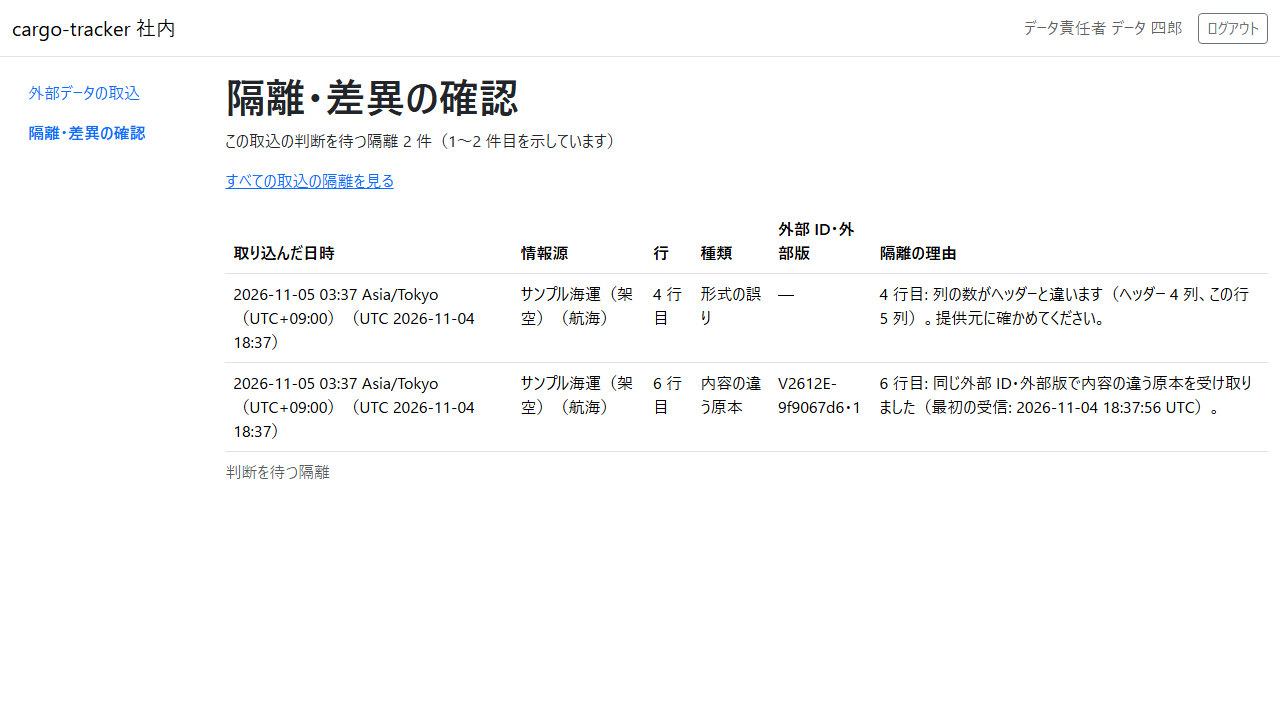
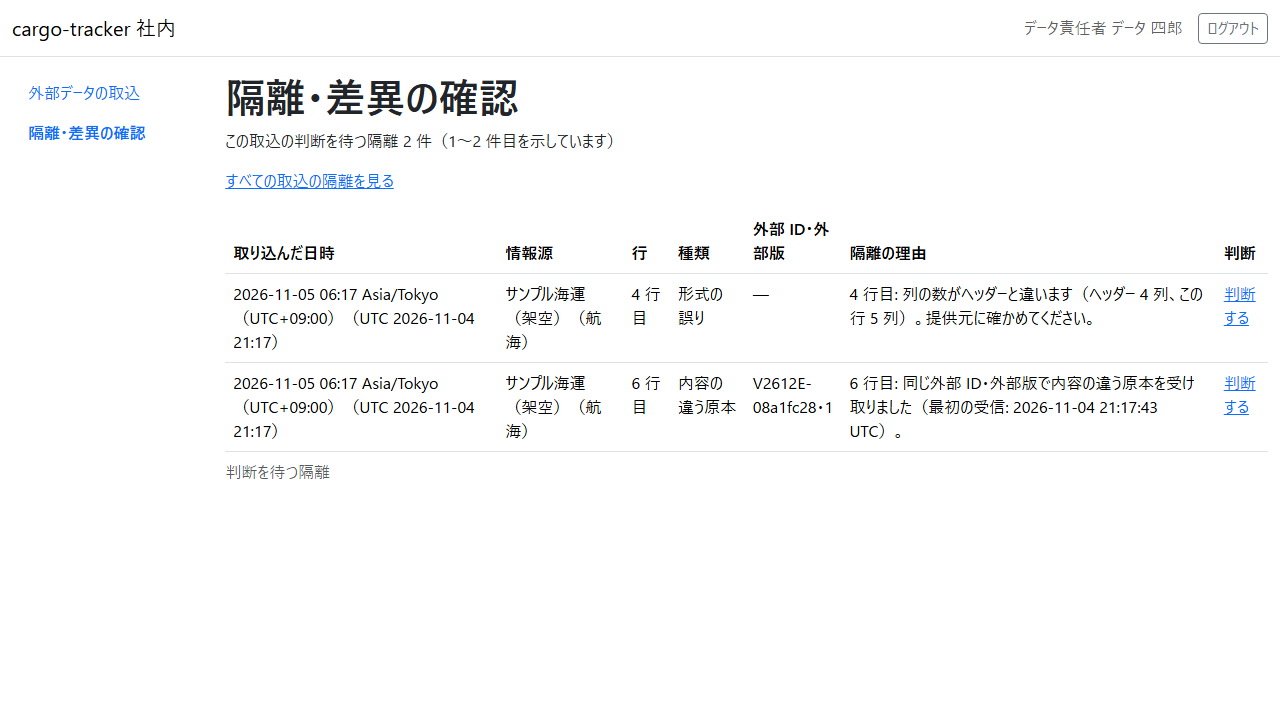
docs(manual): 12.2 に隔離を却下する手順を書き、判断の画面のキャプチャを足す（Bolt 39d2 ステップ 7）
Claude-Session: https://claude.ai/code/session_01GYBUMiQNsZ1DuDCs7LKGFo

diff --git a/docs/manual/12-外部データ.md b/docs/manual/12-外部データ.md
@@ -1,25 +1,26 @@
 ---
 type: Manual
 title: "12 章 外部データ"
-description: "データ責任者が、承認済みの情報源（運送会社・港湾など）から受け取った CSV ファイルを取り込み、採用・重複・隔離の件数を確かめ、判断を待つ隔離を一覧で確かめる手順です。"
+description: "データ責任者が、承認済みの情報源（運送会社・港湾など）から受け取った CSV ファイルを取り込み、採用・重複・隔離の件数を確かめ、判断を待つ隔離を一覧で確かめて却下する手順です。"
 tags: [manual,cargo-tracker]
 status: draft
-generated: { by: anthropic/claude-opus-5-5, at: 2026-11-04T18:48:58Z }
+generated: { by: anthropic/claude-opus-5-5, at: 2026-11-04T21:21:40Z }
 ---
 
 # 12 章 外部データ
 
-データ責任者が、承認済みの情報源（運送会社・港湾などの提供元と、航海・主要実績などの原本の種別の組み合わせ）から受け取った CSV ファイルを取り込み、取り込んだ行がどう分類されたか（採用・重複・隔離）を確かめ、隔離になった行を一覧で確かめる手順です。外部データの取込は、[1 章 業務フロー](01-業務フロー.md) の WF-1（見積依頼から追跡の照会まで）の工程には含まれません。WF-1 とは別に、データ責任者が提供元からファイルを受け取るたびに行います。
+データ責任者が、承認済みの情報源（運送会社・港湾などの提供元と、航海・主要実績などの原本の種別の組み合わせ）から受け取った CSV ファイルを取り込み、取り込んだ行がどう分類されたか（採用・重複・隔離）を確かめ、隔離になった行を一覧で確かめて、業務で使わないものを却下する手順です。外部データの取込は、[1 章 業務フロー](01-業務フロー.md) の WF-1（見積依頼から追跡の照会まで）の工程には含まれません。WF-1 とは別に、データ責任者が提供元からファイルを受け取るたびに行います。
 
-画面の開き方: ログインすると外部データの取込（12.1）が開きます。ナビゲーションの「外部データの取込」（URL: `/staff/external-data/ingestions/new`）からも開けます。隔離・差異の確認（12.2）は、ナビゲーションの「隔離・差異の確認」（URL: `/staff/external-data/undecided-records`）か、取込の結果の画面の「この取込の隔離をすべて確認する」から開きます。どちらの画面もデータ責任者だけが開けます。
+画面の開き方: ログインすると外部データの取込（12.1）が開きます。ナビゲーションの「外部データの取込」（URL: `/staff/external-data/ingestions/new`）からも開けます。隔離・差異の確認（12.2）は、ナビゲーションの「隔離・差異の確認」（URL: `/staff/external-data/undecided-records`）か、取込の結果の画面の「この取込の隔離をすべて確認する」から開きます。隔離の判断は、隔離・差異の確認の各行の「判断する」から開きます。どの画面もデータ責任者だけが開けます。
 
 | 画面 | 役割 | 節 |
 | :--- | :--- | :--- |
 | 外部データの取込 | 承認済みの情報源を 1 つ選び、CSV ファイルを取り込む | [12.1](#121-外部データの取込) |
 | 取込の結果 | 取り込んだファイルの受け取った件数と、取り込めなかった部分（要確認）と、分類別の件数と、隔離の理由を確かめる | [12.1](#取込の結果を読む) |
 | 隔離・差異の確認 | 判断を待つ隔離を、すべての取込にわたって、または 1 つの取込に絞って、100 件ずつ一覧で確かめる | [12.2](#122-隔離差異の確認) |
+| 隔離の判断 | 判断を待つ隔離 1 件の中身と隔離の理由の全文を読み、理由を書いて却下する | [12.2](#隔離を却下する) |
 
-情報源の選定と承認は、画面ではなく運用の手順で行います。取り込んだ行のうち隔離になったものは、取込の結果の画面で最初の 100 件の理由を確かめ、すべてを隔離・差異の確認（12.2）で一覧にして確かめます。
+情報源の選定と承認は、画面ではなく運用の手順で行います。取り込んだ行のうち隔離になったものは、取込の結果の画面で最初の 100 件の理由を確かめ、すべてを隔離・差異の確認（12.2）で一覧にして確かめ、業務で使わないものを 1 件ずつ却下します。
 
 ## 12.1 外部データの取込
 
@@ -191,6 +192,7 @@ generated: { by: anthropic/claude-opus-5-5, at: 2026-11-04T18:48:58Z }
 
 - 取り込んだ行のうち、隔離になってまだ判断していないもの（判断を待つ隔離。[用語集](用語集.md#1-業務用語)）を、すべての取込にわたって一覧で確かめます
 - 1 つの取込の隔離だけに絞って確かめます。取込の結果の画面には最初の 100 件の隔離の理由しか示されませんが、この画面では 101 件目から後も 100 件ずつ読めます
+- 判断を待つ隔離を 1 件ずつ開き、隔離の理由の全文を読んでから、理由を書いて却下します（[隔離を却下する](#隔離を却下する)）。却下した隔離は一覧から消えます
 
 ### 画面の開き方
 
@@ -207,16 +209,18 @@ generated: { by: anthropic/claude-opus-5-5, at: 2026-11-04T18:48:58Z }
 | :--- | :--- | :--- |
 | ① | 件数と示している範囲 | 取込で絞っているときは「この取込の判断を待つ隔離 2 件（1〜2 件目を示しています）」、絞っていないときは「判断を待つ隔離 2 件（1〜2 件目を示しています）」の形で示します。数は 3 桁ごとに「,」で区切ります（例: 「この取込の判断を待つ隔離 9,901 件（101〜200 件目を示しています）」） |
 | ② | 「すべての取込の隔離を見る」 | 取込で絞っているときだけ示されます。絞らない一覧に移ります |
-| ③ | 判断を待つ隔離の表 | 判断を待つ隔離を 1 件ずつ、「取り込んだ日時」「情報源」「行」「種類」「外部 ID・外部版」「隔離の理由」の列で示します。読み方は次の「一覧の読み方」を見てください。幅の狭い画面では、表を横に動かして読みます |
-| ④ | 「前の 100 件」「次の 100 件」 | 判断を待つ隔離が 100 件を超えるとき、前後のページがあるほうだけ示されます。この図は 2 件なので写っていません |
+| ③ | 判断を待つ隔離の表 | 判断を待つ隔離を 1 件ずつ、「取り込んだ日時」「情報源」「行」「種類」「外部 ID・外部版」「隔離の理由」「判断」の列で示します。読み方は次の「一覧の読み方」を見てください。幅の狭い画面では、表を横に動かして読みます |
+| ④ | 「判断する」 | 表の「判断」の列の、行ごとのリンク。その隔離の判断の画面を開きます（[隔離を却下する](#隔離を却下する)） |
+| ⑤ | 「前の 100 件」「次の 100 件」 | 判断を待つ隔離が 100 件を超えるとき、前後のページがあるほうだけ示されます。この図は 2 件なので写っていません |
 
 ### 操作手順
 
 1. ナビゲーションの「隔離・差異の確認」か、取込の結果の画面の「この取込の隔離をすべて確認する」をクリックします
 2. 件数と示している範囲（①）で、判断を待つ隔離が何件あるかを確かめます
 3. 表（③）の「種類」と「隔離の理由」で、どの行がなぜ隔離になったかを確かめます。理由ごとにどうすればよいかは、12.1 の [理由ごとの「どうすればよいか」](#理由ごとのどうすればよいか) を見てください
-4. 100 件を超えるときは、「次の 100 件」「前の 100 件」で前後のページに移ります
-5. 取込で絞っているときに、ほかの取込の隔離も確かめるときは、「すべての取込の隔離を見る」をクリックします
+4. 業務で使わないと判断した隔離は、その行の「判断する」（④）をクリックして却下します（[隔離を却下する](#隔離を却下する)）
+5. 100 件を超えるときは、「次の 100 件」「前の 100 件」（⑤）で前後のページに移ります
+6. 取込で絞っているときに、ほかの取込の隔離も確かめるときは、「すべての取込の隔離を見る」をクリックします
 
 ### 一覧の読み方
 
@@ -230,6 +234,7 @@ generated: { by: anthropic/claude-opus-5-5, at: 2026-11-04T18:48:58Z }
 | 種類 | 「内容の違う原本」か「形式の誤り」（下の表） |
 | 外部 ID・外部版 | 内容の違う原本は、外部 ID と外部版を「・」でつないで示します（例: 「V2612E-1a2b3c4d・1」）。形式の誤りは外部 ID・外部版を読めていないので「—」と示します（読み上げでは「なし」） |
 | 隔離の理由 | 取込の結果の画面の「隔離の理由」と同じ文です（[隔離の理由を読む](#隔離の理由を読む)） |
+| 判断 | 「判断する」のリンク。読み上げでは「判断する（6 行目、V2612E-1a2b3c4d・1）」「判断する（ファイル全体、外部 ID なし）」のように、行と外部 ID・外部版を添えて読みます |
 
 | 種類 | 意味 |
 | :--- | :--- |
@@ -245,9 +250,60 @@ generated: { by: anthropic/claude-opus-5-5, at: 2026-11-04T18:48:58Z }
 | 絞らない（ナビゲーションの「隔離・差異の確認」） | 「判断を待つ隔離はありません。」と、リンク「外部データの取込へ」 |
 | 取込で絞る | 「この取込に判断を待つ隔離はありません。」と、リンク「すべての取込の隔離を見る」 |
 
+### 隔離を却下する
+
+判断を待つ隔離のうち、業務で使わないと判断したものを却下します。一覧の「判断する」から隔離の判断の画面を開き、隔離の中身と理由の全文を読んでから、却下の理由を書いて「却下する」をクリックします。却下すると、判断した人・時刻・理由が記録され、その隔離は判断を待つ隔離の一覧から消えます。
+
+却下しても、業務で使う値は変わりません。内容の違う原本を却下しても、前に受け取った原本と値はそのまま使われます。
+
+#### 隔離の判断の画面
+
+![隔離の判断](assets/12-undecided-record-decision.png)
+
+図は、隔離・差異の確認の一覧から 6 行目の内容の違う原本の「判断する」を開き、理由を書く前の状態です。
+
+| # | 項目 | 説明 |
+| :--- | :--- | :--- |
+| ① | 隔離の中身 | 「取り込んだ日時」「情報源」「行」「種類」「外部 ID・外部版」「隔離の理由」。一覧と同じ項目で、隔離の理由は全文を示します。ファイル全体の誤りの「行」は「ファイル全体」、形式の誤りの「外部 ID・外部版」は「なし」と示します |
+| ② | 取り込み直しの案内 | 種類が形式の誤りのときだけ、「形式の誤りは採用できません。直したファイルを取り込み直してください。」が示されます。この図は内容の違う原本なので写っていません |
+| ③ | 却下の理由 | 却下する理由を書きます。欄の上に「必須、1000 文字まで」と示されます。前後の空白は数えません |
+| ④ | 取り消せないことの文 | 「却下すると取り消せません。誤って却下したときは、提供元に同じ原本を送り直してもらってください。」 |
+| ⑤ | 「却下する」 | 書いた理由で却下します |
+| ⑥ | 「一覧に戻る」 | 却下せずに、開いたときの一覧（取込の絞り込みとページ）に戻ります |
+
+#### 却下の手順
+
+1. 隔離・差異の確認の一覧で、却下する隔離の行の「判断する」をクリックします
+2. 隔離の判断の画面で、「種類」と「隔離の理由」の全文を読み、却下してよいかを確かめます。内容の違う原本は、提供元に送った理由を確かめてから判断してください
+3. 「却下の理由」に、却下する理由を書きます（例: 「提供元に確かめ、誤って送った原本と分かった。」「直したファイルを取り込み直した。」）。理由は判断した人・時刻とともに記録に残ります
+4. 「却下する」をクリックします
+5. 開いたときの一覧（取込の絞り込みとページ）に戻り、「隔離を却下しました。」と示されます。却下した隔離は一覧から消えています。取込で絞った一覧の最後の隔離を却下したときは、「この取込に判断を待つ隔離はありません。」と示されます
+
+#### 形式の誤りの隔離
+
+種類が形式の誤りの隔離は、外部 ID・外部版を読めていないので採用できません。判断の画面には「形式の誤りは採用できません。直したファイルを取り込み直してください。」が示され、できる判断は却下だけです。ファイルを直して取り込み直し、元の隔離は理由（例: 「直したファイルを取り込み直した。」）を書いて却下してください。
+
+#### 却下できないとき
+
+理由を書かずに、または 1000 文字を超えて「却下する」をクリックすると、却下されずに判断の画面に戻り、画面の上にエラー要約（見出し「却下できませんでした」）が示されます。エラー要約の文をクリックすると「却下の理由」の欄に移ります。同じ文が欄の上の「必須、1000 文字まで」の下にも赤字で示されます。書いた理由は残ります。
+
+| 画面の文 | 起きたこと | すること |
+| :--- | :--- | :--- |
+| 却下の理由を書いてください。 | 理由が空か、空白だけ | 理由を書いて、もう一度「却下する」をクリックしてください |
+| 却下の理由は 1000 文字までで書いてください。 | 理由が 1000 文字を超えた | 1000 文字までに縮めて、もう一度「却下する」をクリックしてください |
+
+判断の画面を開いたときや「却下する」をクリックしたときに、その隔離がすでに判断されていると、却下されずに一覧に戻り、「この隔離は判断済みです。」と示されます。ほかのデータ責任者が先に判断したときや、「却下する」を 2 度送ったときに示されます。判断は 1 つだけ記録され、その隔離は一覧から消えています。
+
 ### 注意・補足
 
 - 一覧に示すのは、分類が隔離の行だけです。採用と重複の行は示されません
 - URL の取込の指定が誤っているときや、指定した取込がないときは、「指定された取込が見つかりません。」と示され、取込で絞らない一覧が示されます
 - URL のページの指定が誤っているときは 1 ページ目が、最後のページより後を指定したときは最後のページが示されます
-- 隔離・差異の確認は、データ責任者だけが開けます。ほかの役割の利用者が開くと「権限がありません」と示されます（[2 章](02-ログインと共通の画面.md)）
+- 却下は取り消せません。誤って却下したときは、提供元に同じ原本を送り直してもらってください
+- 形式の誤りの隔離は却下だけです。採用はできないので、直したファイルを取り込み直してください（[形式の誤りの隔離](#形式の誤りの隔離)）
+- 内容の違う原本を採用する（受け取った内容を業務で使う）ことは、まだ画面でできません
+- 「この隔離は判断済みです。」と示されたら、ほかのデータ責任者が先に判断したか、「却下する」を 2 度送っています。判断は 1 つだけ記録されているので、もう一度判断する必要はありません（[却下できないとき](#却下できないとき)）
+- 判断した隔離の一覧と、却下の理由を後から読む画面はまだありません
+- 隔離の判断の画面の URL の受信記録が誤っているときや、隔離でない受信記録（採用・重複）を指しているときは、「画面が見つかりません」と示されます（[2.8](02-ログインと共通の画面.md#28-画面が見つかりません)）
+- 1 つの取込の形式の誤りをまとめて却下することは、まだできません。1 件ずつ却下してください
+- 隔離・差異の確認と隔離の判断は、データ責任者だけが開けます。ほかの役割の利用者が開くと「権限がありません」と示されます（[2 章](02-ログインと共通の画面.md)）

diff --git a/docs/development/cargo-tracker/bolt_39d2_plan.md b/docs/development/cargo-tracker/bolt_39d2_plan.md
@@ -2,7 +2,7 @@
 type: Plan
 title: "Bolt 39d2 計画 - S-17 で隔離を却下する（判断の記録・判断のイベントと監査）"
 tags: [plan]
-generated: { by: anthropic/claude-opus-5-5, at: 2026-11-04T20:08:47Z }
+generated: { by: anthropic/claude-opus-5-5, at: 2026-11-04T21:21:40Z }
 verified:
   - { by: human:kakimomokuri, at: 2026-11-04T20:02:49Z }
 ---
@@ -377,7 +377,7 @@ rcd ..> ar : DE-29（コミットの後）
 - [x] **4. 却下のサービスとイベント**（緑。判断の画面の行き先は判断のサービスの refusalOf(UUID) が決める（画面はポートを直接呼べないため。クラス図にないメソッド）。推奨のとおり承認として記録した。Recommend 承認の指示による）: `ReceivedRecordDecisionService`（情報源 ID は `IngestionRepository.findById` から）・`DecisionOutcome`・`RejectReceivedRecordCommand`（`@Command`）・DE-29（判断は `String`）、`ExternalDataConfiguration` の `@Bean`、照会のサービスの ID で 1 件を引くメソッド。行 1・3〜6・9・10・22 が緑（完了の判定: 同上。**承認ゲート**）
 - [x] **5. 監査**（緑。private のヘルパーは receivedRecordAudit に名前を変えた。推奨のとおり承認として記録した。Recommend 承認の指示による）: `AuditAction.EXTERNAL_RECORD_DECIDED`、`AuditRecord.externalRecordDecided`（private のヘルパーの名前を変える）、listener の `on`、規則の行、配信の統合テスト。行 11〜13 が緑（完了の判定: 同上。**承認ゲート**（監査、規則の行の変更））
 - [x] **6. 画面**（緑。S-17・S-16 の UI 17 本、axe 違反 0、test 4,359 件、SonarQube PASS（9 件を直した）。判断の画面にエラー要約を足し、39d のページ送りのステップを Shift+Tab に直した。ページ送りが 100 個の「判断する」の後にある負担は 39d2b で扱う。推奨のとおり承認として記録した。Recommend 承認の指示による）: `UndecidedRecordController` の判断の画面と POST、`RejectionForm`、`decision.html`（キーのない隔離は却下だけと「直したファイルを取り込み直してください」）、一覧の「判断する」と知らせ、パス変数を `String` で受けて 404、戻り先を `parseUuid`・`parsePage` に通す。行 4・5・7・8・14・17〜19・22 が緑、受入シナリオが緑、39d の S-17 と S-16 の UI のシナリオが緑（完了の判定: 緑、`spotbugsMain`・`checkstyleMain`・`sonar-local:check`、`uiTest` と axe 違反 0。**承認ゲート**（画面、新しいファイル））
-- [ ] **7. マニュアルとキャプチャ**: 12.2 の「隔離を却下する」・画面の説明・注意・補足、用語集、付録 B の早見表の 1 行（「この隔離は判断済みです。」）、`manualScreenshots`（行 20。新しい `12-undecided-record-decision.png` と `12-undecided-records.png` の撮り直し）。知らせ・欄の誤り・判断済みの文を controller の定数とテンプレートに突き合わせる（T-197）（完了の判定: キャプチャの差分と突き合わせの記録。**承認ゲート**（マニュアル、新しいファイル））
+- [x] **7. マニュアルとキャプチャ**（12.2 に「隔離を却下する」、用語集、付録 B の 1 行、00-はじめに・index の 12 章の概要。12-undecided-record-decision.png を足し、12-undecided-records.png を撮り直した（関係のない 49 枚は時刻の画素だけなので戻した）。controller の定数とテンプレートの文と一字ずつ一致（T-197）。却下した原本の送り直しが重複になり一覧に戻らないおそれは 39d4 の開始準備で確かめる。推奨のとおり承認として記録した。Recommend 承認の指示による）: 12.2 の「隔離を却下する」・画面の説明・注意・補足、用語集、付録 B の早見表の 1 行（「この隔離は判断済みです。」）、`manualScreenshots`（行 20。新しい `12-undecided-record-decision.png` と `12-undecided-records.png` の撮り直し）。知らせ・欄の誤り・判断済みの文を controller の定数とテンプレートに突き合わせる（T-197）（完了の判定: キャプチャの差分と突き合わせの記録。**承認ゲート**（マニュアル、新しいファイル））
 - [ ] **8. 品質ゲートと開発レビュー**: 変異、`check`・`uiTest`、その後に SonarQube、開発レビューとその直し。push の前に `check`（T-225）
 - [ ] **9. 終了報告**: push して CI とデモ環境の配備を確かめ（デモ環境でデータ責任者でログインし、内容の違う原本の取込から S-17 で 1 件を却下する）、`demoVideo` で `@demo-bolt-39d2/reject` を撮る（新しいファイル）。release_plan（39d2 の行の計画と終了報告のリンク）・開発の索引・mkdocs を直す。【業務の判断】(a)・(d)・(e)・(g) を終了報告の議題の先頭に置く
 

diff --git a/docs/manual/用語集.md b/docs/manual/用語集.md
@@ -4,7 +4,7 @@ title: "付録 A 用語集"
 description: "本マニュアルと画面で使う言葉です。"
 tags: [manual,cargo-tracker]
 status: draft
-generated: { by: anthropic/claude-opus-5-5, at: 2026-11-04T18:39:21Z }
+generated: { by: anthropic/claude-opus-5-5, at: 2026-11-04T21:21:40Z }
 ---
 
 # 付録 A 用語集
@@ -65,6 +65,7 @@ generated: { by: anthropic/claude-opus-5-5, at: 2026-11-04T18:39:21Z }
 | 隔離 | 取り込んだ行の分類の 1 つ。すでに受け取った行と、提供元・原本の種別・外部 ID・外部版が同じなのに内容が違う行。前の原本と値を上書きせずに残します。ファイルや行の形式を確かめられないとき（中身が空のファイルや、選んだ情報源と違う種別のファイルなど）も隔離になります。まず選んだ情報源とファイルの組み合わせを確かめ、それでも分からなければ提供元に確かめます（[12.1](12-外部データ.md#121-外部データの取込)） |
 | 隔離の理由 | 取込の結果の画面に示される、隔離になった行とファイルの理由。「4 行目: 列の数がヘッダーと違います（ヘッダー 4 列、この行 5 列）。提供元に確かめてください。」のように、どこ（ファイル・行の番号）・理由・どうすればよいかをファイルの行の順に示します。重複の行の理由は示しません（[12.1](12-外部データ.md#隔離の理由を読む)） |
 | 判断を待つ隔離 | 隔離になった受信記録のうち、まだ判断していないもの。隔離・差異の確認の画面に、取込の新しい順・ファイルの行の順で一覧になります。種類は「内容の違う原本」（外部 ID・外部版が同じで内容が違う行）と「形式の誤り」（行やファイルの形式を確かめられず、外部 ID・外部版を読めなかったもの）の 2 つです（[12.2](12-外部データ.md#122-隔離差異の確認)） |
+| 却下（隔離） | 判断を待つ隔離を、業務で使わないと判断すること。データ責任者が隔離の判断の画面で理由（必須、1000 文字まで）を書いて行います。判断した人・時刻・理由が記録され、その隔離は判断を待つ隔離の一覧から消えます。内容の違う原本を却下しても、前に受け取った原本と値はそのまま使われます。却下は取り消せません。誤って却下したときは、提供元に同じ原本を送り直してもらいます（[12.2](12-外部データ.md#隔離を却下する)） |
 | 要確認（取込） | 取込の結果の画面に示される、取り込めなかった部分があることの知らせ。引用符が閉じないままファイルが終わったときは「12 行目からファイルの終わりまで（29 行）」、ファイルを読めなかったとき（文字コード・ヘッダー・必要な列の誤り、中身が空のファイルなど）は「ファイル全体（データ行 1,234 行）」「ファイル全体（データ行なし）」の形で、取り込めなかった部分を示します。取り込めなかった部分の行は分類されず、まとめて隔離 1 件になります。行の誤りだけのとき（その行が隔離になる）は示されません（[12.1](12-外部データ.md#要確認を読む)） |
 
 ## 2. 画面と表記

diff --git a/docs/manual/付録B-トラブルシューティング.md b/docs/manual/付録B-トラブルシューティング.md
@@ -4,7 +4,7 @@ title: "付録 B トラブルシューティング"
 description: "困ったときの症状から引く Q&A です。"
 tags: [manual,cargo-tracker]
 status: draft
-generated: { by: anthropic/claude-opus-5-5, at: 2026-11-04T15:58:08Z }
+generated: { by: anthropic/claude-opus-5-5, at: 2026-11-04T21:21:40Z }
 ---
 
 # 付録 B トラブルシューティング
@@ -217,3 +217,4 @@ generated: { by: anthropic/claude-opus-5-5, at: 2026-11-04T15:58:08Z }
 | 取込ファイルが大きすぎます | 外部データの取込（1 回に送る大きさが 55 MB を超えたとき） | ファイルは取り込まれていません。ブラウザの「戻る」かリンク「外部データの取込へ」で取込の画面に戻り、ファイルを分けて取り込んでください（[12.1](12-外部データ.md#121-外部データの取込)） |
 | ブラウザの接続エラーの画面（「接続がリセットされました」など。文言はブラウザによって違う） | 外部データの取込（1 回に送る大きさが 60 MB を超えたとき） | 接続が切れ、ファイルは取り込まれていません。ブラウザの「戻る」で取込の画面に戻り、ファイルを分けて取り込んでください（[12.1](12-外部データ.md#121-外部データの取込)） |
 | 取り込める情報源がありません。承認済みの情報源がありません。情報源を選定し、承認してください。承認は運用の手順で行います。 | 外部データの取込 | 運用の手順で情報源を選定し、承認してから取り込んでください（[12.1](12-外部データ.md#121-外部データの取込)） |
+| この隔離は判断済みです。 | 隔離・差異の確認（判断の画面を開いたとき・却下したとき） | ほかのデータ責任者が先に判断したか、「却下する」を 2 度送りました。判断は 1 つだけ残り、その隔離は一覧から消えています。一覧を読み直して確かめてください（[12.2](12-外部データ.md#隔離を却下する)） |

diff --git a/docs/manual/00-はじめに.md b/docs/manual/00-はじめに.md
@@ -3,7 +3,7 @@ type: Manual
 title: "はじめに"
 tags: [manual,cargo-tracker]
 status: draft
-generated: { by: anthropic/claude-opus-5-5, at: 2026-11-04T18:39:21Z }
+generated: { by: anthropic/claude-opus-5-5, at: 2026-11-04T21:21:40Z }
 ---
 
 # はじめに
@@ -42,7 +42,7 @@ cargo-tracker では、ログインした利用者の役割によって、使え
 | [9 章 追跡管理](09-追跡管理.md) | 追跡一覧、追跡の詳細、主要実績の登録 |
 | [10 章 KPI 計測記録](10-KPI計測記録.md) | KPI-01 の時刻とリードタイム |
 | [11 章 利用者の管理](11-利用者の管理.md) | 利用者の一覧と詳細、利用者の登録、役割の変更、利用停止と再開、ロックの解除、認証アプリの登録の解除、担当企業の割り当て |
-| [12 章 外部データ](12-外部データ.md) | 外部データの取込、採用・重複・隔離の件数、隔離・差異の確認 |
+| [12 章 外部データ](12-外部データ.md) | 外部データの取込、採用・重複・隔離の件数、隔離・差異の確認、隔離の却下 |
 | [付録 A 用語集](用語集.md) | 業務用語と画面の表記 |
 | [付録 B トラブルシューティング](付録B-トラブルシューティング.md) | 症状から引く Q&A、エラーメッセージ早見表 |
 
